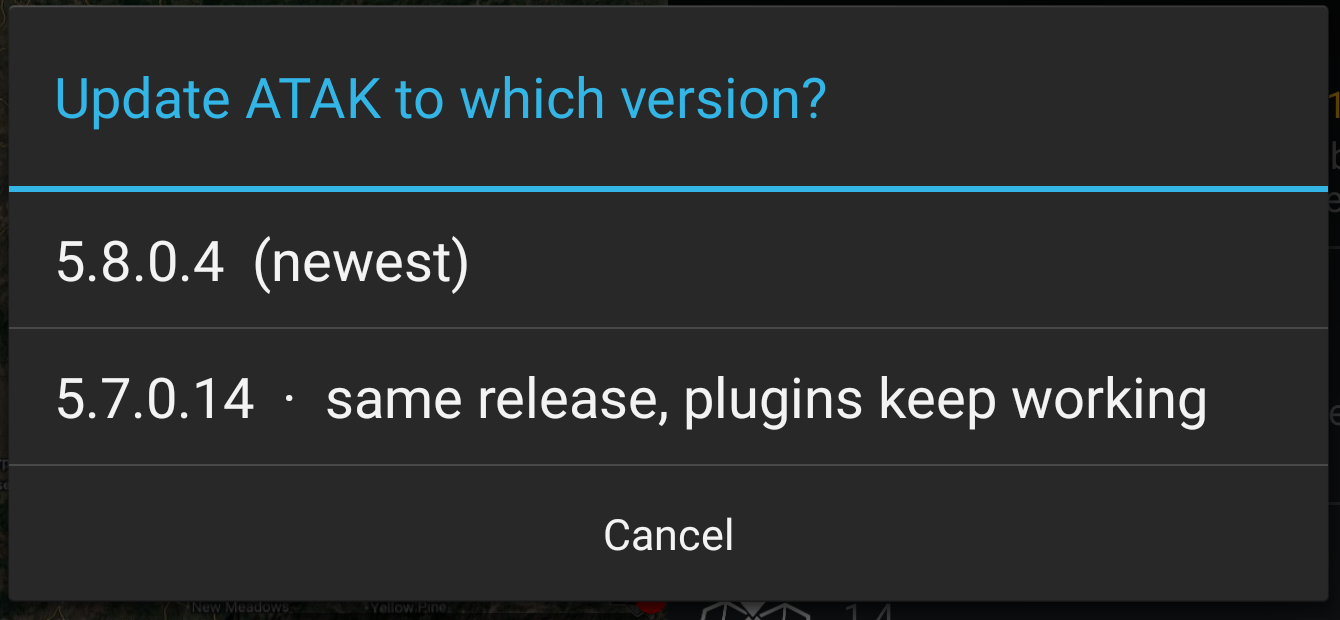
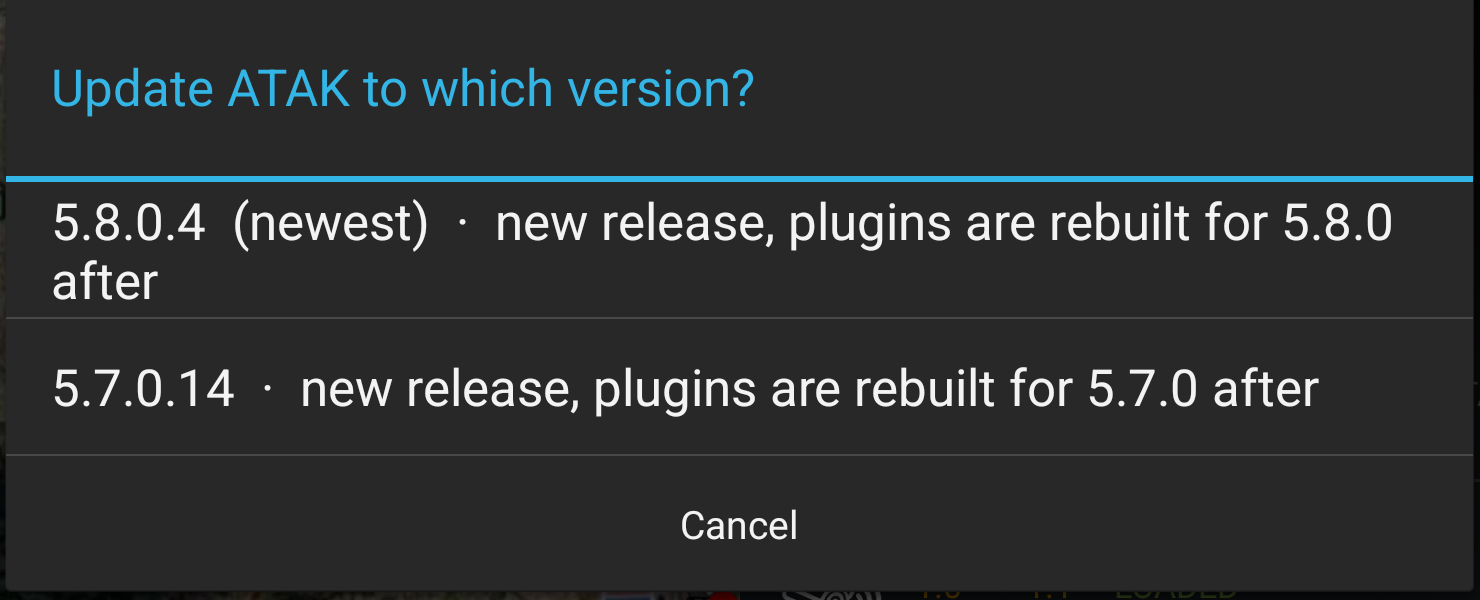
TAKwerx Market 1.3: the wording from the 1.2 runs, and their screens
1.2 ran on all three official phones: a same-release update on 5.7, the full
5.6 to 5.7 jump with Android's first-sideload prompts in the way and the new
market loading on its own after the restart, and the market replacing itself.
1.3 is what those runs showed needed saying: the outgoing market's pane tells
the operator to close and reopen it instead of freezing on "Installing…", and
a row for a plugin built for another ATAK names both sides. The guide gains
the version chooser and the two-step handoff as seen on the S21.

diff --git a/README.md b/README.md
@@ -1,10 +1,10 @@
 ATAK Plugin — TAKwerx Market
 
-**Download TAKwerx Market 1.2** (pick the one matching your ATAK-CIV version, sideload, then load it in ATAK's Plugins manager):
+**Download TAKwerx Market 1.3** (pick the one matching your ATAK-CIV version, sideload, then load it in ATAK's Plugins manager):
 
-- **ATAK-CIV 5.6:** https://github.com/takwerx/takwerx-market/releases/download/v1.2/ATAK-Plugin-TakwerxMarket-1.2--5.6.0-civ-release.apk
-- **ATAK-CIV 5.7:** https://github.com/takwerx/takwerx-market/releases/download/v1.2/ATAK-Plugin-TakwerxMarket-1.2--5.7.0-civ-release.apk
-- **ATAK-CIV 5.8:** https://github.com/takwerx/takwerx-market/releases/download/v1.2/ATAK-Plugin-TakwerxMarket-1.2--5.8.0-civ-release.apk
+- **ATAK-CIV 5.6:** https://github.com/takwerx/takwerx-market/releases/download/v1.3/ATAK-Plugin-TakwerxMarket-1.3--5.6.0-civ-release.apk
+- **ATAK-CIV 5.7:** https://github.com/takwerx/takwerx-market/releases/download/v1.3/ATAK-Plugin-TakwerxMarket-1.3--5.7.0-civ-release.apk
+- **ATAK-CIV 5.8:** https://github.com/takwerx/takwerx-market/releases/download/v1.3/ATAK-Plugin-TakwerxMarket-1.3--5.8.0-civ-release.apk
 
 All releases: https://github.com/takwerx/takwerx-market/releases
 
@@ -51,7 +51,7 @@ market pins that signature for ATAK's package before Android is asked.
 _________________________________________________________________
 STATUS
 
-Version 1.2. Twelfth submission.
+Version 1.3. Thirteenth submission.
 
 Verified on hardware against a live catalog: Samsung Galaxy XCover Pro,
 Android 13, ATAK-CIV 5.8.0.3. Catalog fetch, per-ATAK filtering, update
@@ -170,6 +170,17 @@ build to land, however long Android takes, and the next ATAK start clears the
 file if it never does. The version chooser also says what a cross-release
 choice means for the plugins, and the guide says that after the market
 updates itself ATAK must be quit and reopened to run the new build.
+
+1.2 was run on all three official phones: a same-release update on 5.7, the
+full 5.6 to 5.7 jump with Android's first-sideload prompts in the way and
+the new market loading on its own after the restart, and the market
+replacing itself. 1.3 is two sentences from those runs. When the market
+replaces itself, ATAK unloads the running copy and its pane stays on screen
+frozen on "Installing…"; the outgoing copy now writes "TAKwerx Market
+updated. Close this pane and open it again." into its status line as it
+goes. And a row for a plugin built for another ATAK names both sides,
+"1.0 built for 5.6.0.CIV → 1.1 for this ATAK", because the shorter form read
+as if the new build were for the old ATAK.
 
 _________________________________________________________________
 POINT OF CONTACTS

diff --git a/docs/USER_GUIDE.md b/docs/USER_GUIDE.md
@@ -1,12 +1,12 @@
 # TAKwerx Market for ATAK — User Guide
 
-**Version 1.2 · takwerx**
+**Version 1.3 · takwerx**
 
-**Download TAKwerx Market 1.2** (pick the one matching your ATAK-CIV version, sideload, then load it in ATAK's Plugins manager):
+**Download TAKwerx Market 1.3** (pick the one matching your ATAK-CIV version, sideload, then load it in ATAK's Plugins manager):
 
-- **ATAK-CIV 5.6:** https://github.com/takwerx/takwerx-market/releases/download/v1.2/ATAK-Plugin-TakwerxMarket-1.2--5.6.0-civ-release.apk
-- **ATAK-CIV 5.7:** https://github.com/takwerx/takwerx-market/releases/download/v1.2/ATAK-Plugin-TakwerxMarket-1.2--5.7.0-civ-release.apk
-- **ATAK-CIV 5.8:** https://github.com/takwerx/takwerx-market/releases/download/v1.2/ATAK-Plugin-TakwerxMarket-1.2--5.8.0-civ-release.apk
+- **ATAK-CIV 5.6:** https://github.com/takwerx/takwerx-market/releases/download/v1.3/ATAK-Plugin-TakwerxMarket-1.3--5.6.0-civ-release.apk
+- **ATAK-CIV 5.7:** https://github.com/takwerx/takwerx-market/releases/download/v1.3/ATAK-Plugin-TakwerxMarket-1.3--5.7.0-civ-release.apk
+- **ATAK-CIV 5.8:** https://github.com/takwerx/takwerx-market/releases/download/v1.3/ATAK-Plugin-TakwerxMarket-1.3--5.8.0-civ-release.apk
 
 All releases: https://github.com/takwerx/takwerx-market/releases
 
@@ -189,7 +189,13 @@ the market and your plugins keep working as they are.
 
 ![The ATAK-CIV row above the plugins on a 5.7 phone, offering 5.8.0.4 or 5.7.0.14](screenshots/19-atak-row.png)
 
-![Update ATAK to which version? 5.8.0.4 (newest), or 5.7.0.14, same release, plugins keep working](screenshots/22-atak-version-chooser.png)
+![Update ATAK to which version? 5.8.0.4 (newest) new release, plugins are rebuilt for 5.8.0 after; or 5.7.0.14, new release, plugins are rebuilt for 5.7.0 after](screenshots/22-atak-version-chooser.png)
+
+For a new release the market's own build for it goes on first, then ATAK. You
+will see ATAK ask to load the new market while Android is already installing
+ATAK behind it; tap Cancel on that one, it loads after the restart.
+
+![ATAK asking to load TAKwerx Market, with Android's ATAK Installing… dialog on top](screenshots/24-market-then-atak.png)
 
 ![The ATAK row downloading, 30%](screenshots/23-atak-downloading.png)
 
@@ -221,6 +227,10 @@ again.
 When it is done the header says **All up to date**, ATAK's own row reads
 Installed with the new version, and the count leaves the toolbar icon. Nothing
 you had downloaded into ATAK was touched.
+
+After a new release, each plugin's row reads like "1.0 built for 5.6.0.CIV →
+1.1 for this ATAK": what is on the phone and what it was built for, then what
+is offered for the ATAK you are now on.
 
 ### "signed with a different key"
 
